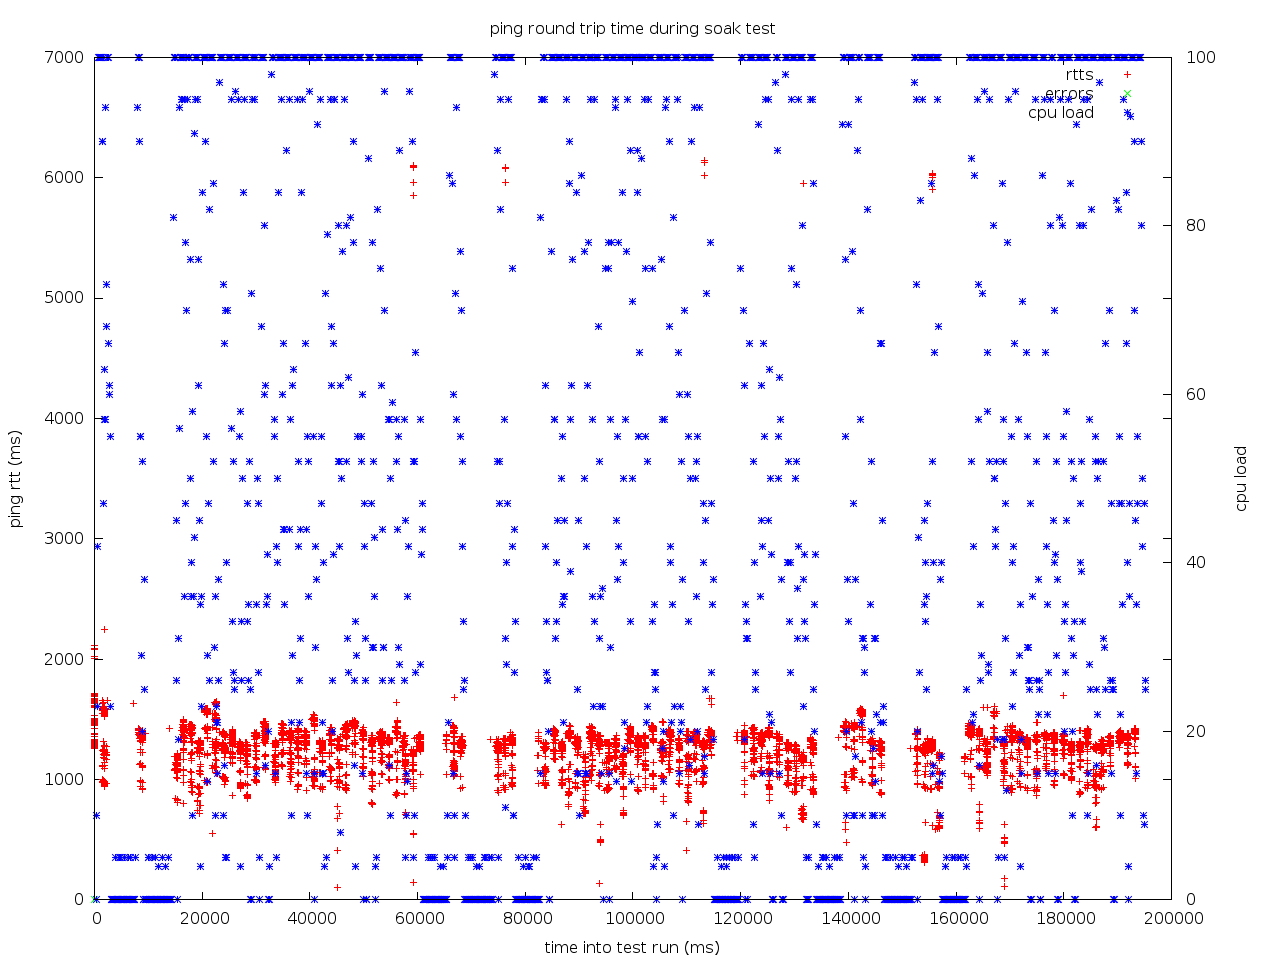
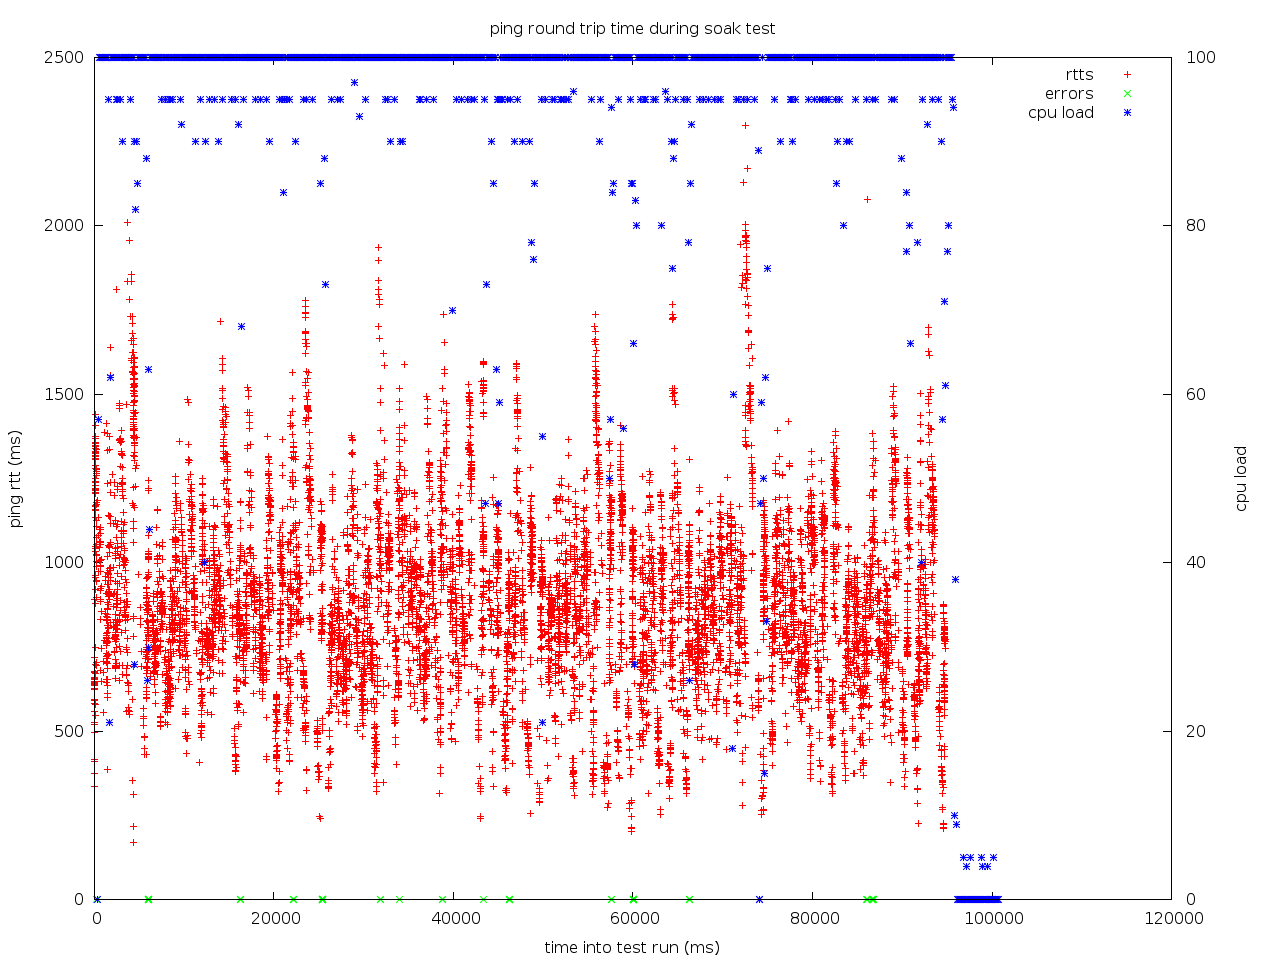
Ditch rallyBeforeACharge(). Doesn't change results.

diff --git a/client/src/main/java/x/ClientRunner.java b/client/src/main/java/x/ClientRunner.java
@@ -34,8 +34,8 @@ public class ClientRunner {
     private void run() throws Exception {
         nThreads = 100;
         pingCount = 10000;
-        Client.ssl = true;
-        ClasspathKeystoreSocketFactory.clientSessionCacheEnabled = false;
+        Client.ssl = false;
+        ClasspathKeystoreSocketFactory.clientSessionCacheEnabled = true;
 
         cyclicBarrier = new CyclicBarrier(nThreads, newProgressMeter());
         executor = Executors.newFixedThreadPool(nThreads);
@@ -133,7 +133,7 @@ public class ClientRunner {
             try {
                 channel.connect();
                 long connectTime = System.currentTimeMillis() - t;
-                rallyBeforeACharge();
+//                rallyBeforeACharge();
                 long rtt = Client.timeToPing(channel);
                 return new Result(t, rtt, connectTime);
             } catch (Exception e) {

diff --git a/README.md b/README.md
@@ -1,0 +1,6 @@
+Ping pong between a server and set of clients to compare plaintext, ssl with session ids and a possible worst case of new session for every message.
+
+The results:
+![chart](https://raw.githubusercontent.com/wcurrie/java-ssl-perf-test/master/results/diff.png "")
+
+Unsurprisingly, forcing the server to do public key crypto for every new connection keeps it busy.
